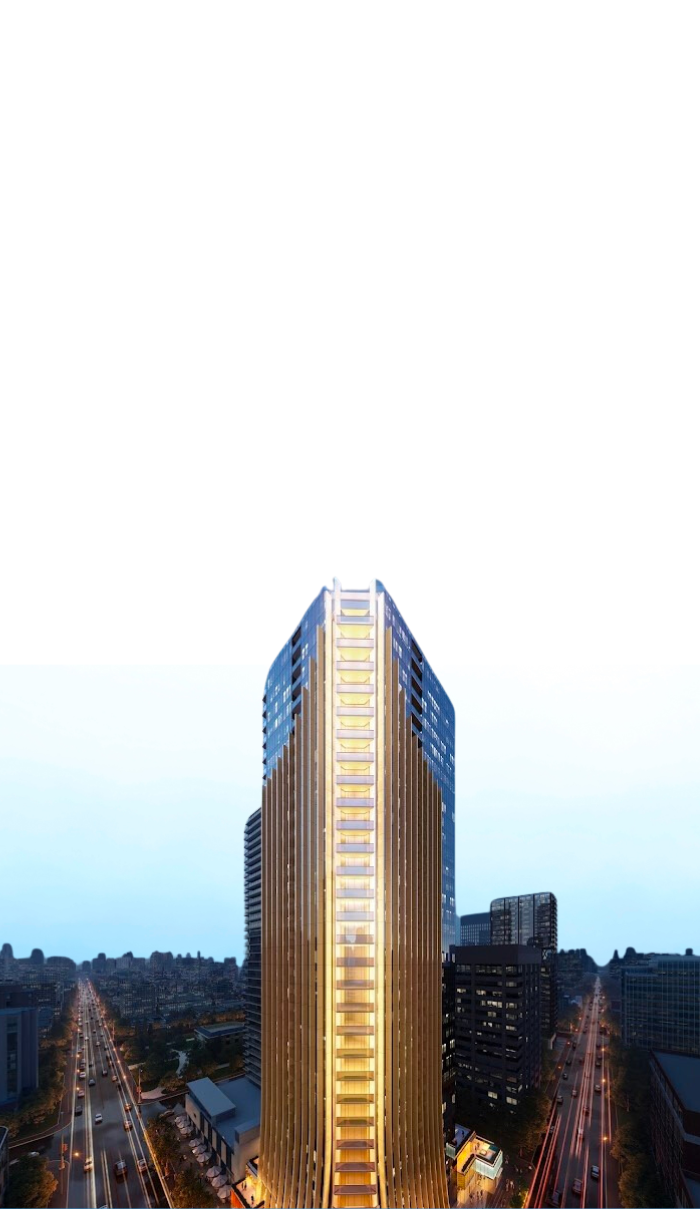
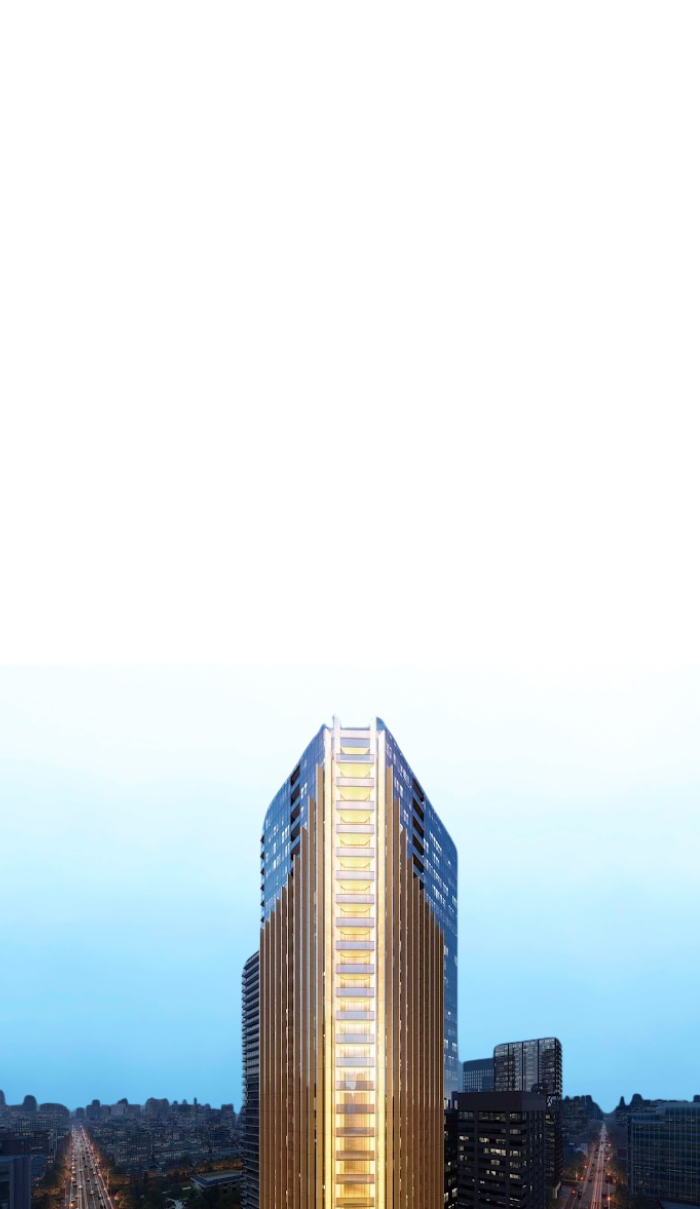
dfv

Changed region(s): [[0.0, 0.4591, 1.0, 1.0]]

diff --git a/app/globals.css b/app/globals.css
@@ -2140,11 +2140,18 @@ button:focus:not(:focus-visible) {
   background-image: url("/homep/4.png") !important;
 }
 .bg-homem {
-  background-position: center !important;
+  background-position: bottom !important;
   background-repeat: no-repeat !important;
   background-size: cover !important;
   height: 550px !important;
 }
+/* mobile version */
+@media (max-width: 800px) {
+  .bg-homem {
+    height: 450px !important;
+  }
+}
+
 .lastp{
   font-size: 14px;
     color: #444444;

diff --git a/app/(home)/page.js b/app/(home)/page.js
@@ -86,7 +86,7 @@ export default async function Home() {
                 href={"/pre-construction-homes/calgary"}
                 className="link-black"
               >
-                Calgary
+                Top Calgary Projects
               </Link>
             </h2>
           </div>
